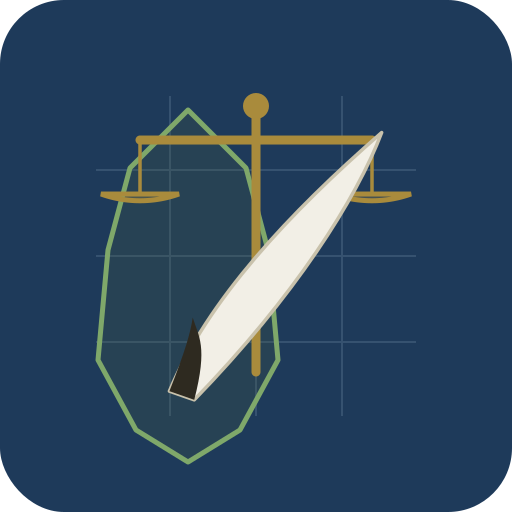
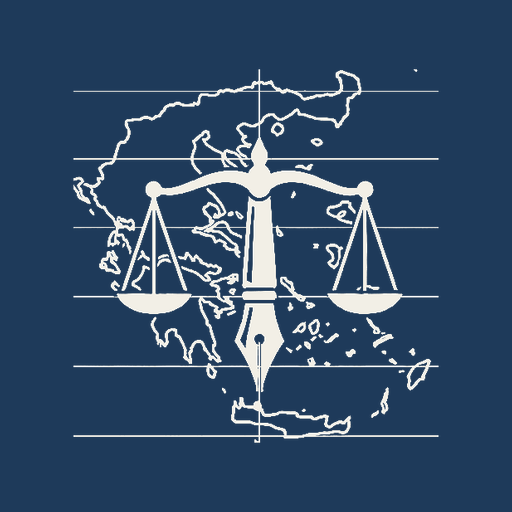
Add files via upload

diff --git a/index.html b/index.html
@@ -23,7 +23,7 @@
 *{box-sizing:border-box;margin:0;padding:0}
 body{font-family:'Segoe UI',system-ui,sans-serif;background:var(--bg);color:var(--ink);line-height:1.55}
 header{background:var(--navy);color:#fff;padding:18px 22px;display:flex;align-items:center;gap:14px;flex-wrap:wrap}
-header .emblem{width:54px;height:54px;border-radius:4px;flex-shrink:0}
+header .emblem{width:54px;height:54px;border-radius:4px;flex-shrink:0;object-fit:contain}
 header h1{font-size:20px;font-weight:600;letter-spacing:.5px}
 header .sub{font-size:12px;color:#b9c4d2;width:100%;margin-top:-4px}
 .wrap{max-width:1000px;margin:0 auto;padding:22px}
@@ -75,6 +75,33 @@ button{font-family:inherit;font-weight:600;cursor:pointer;border:none;border-rad
 .guide-foot{margin-top:14px;padding-top:12px;border-top:1px solid #d4ddea;color:#4a5568;font-size:13.5px}
 .brb-footer{text-align:center;padding:24px 16px 32px;color:#6b6657;font-size:13px;border-top:1px solid #e0ddd3;margin-top:24px}
 .brb-footer b{color:var(--navy)}
+.brb-meta{display:inline-block;margin-top:4px;font-size:11.5px;color:#9a9384;letter-spacing:.3px}
+.token-badge{display:inline-block;margin-top:6px;background:rgba(169,139,60,.18);color:#A98B3C;border:1px solid #A98B3C;padding:3px 10px;border-radius:20px;font-size:13px;font-weight:600;cursor:pointer}
+.token-badge.hidden{display:none}
+.token-badge.low{background:rgba(224,88,88,.15);color:#e05858;border-color:#e05858}
+.modal-overlay{position:fixed;inset:0;background:rgba(20,30,45,.6);display:flex;align-items:center;justify-content:center;z-index:1000;padding:16px}
+.modal-overlay.hidden{display:none}
+.modal-box{background:#fff;border-radius:8px;max-width:560px;width:100%;max-height:90vh;overflow:auto;padding:24px;position:relative;box-shadow:0 20px 60px rgba(0,0,0,.3)}
+.modal-x{position:absolute;top:14px;right:14px;border:none;background:none;font-size:18px;cursor:pointer;color:#888}
+.pkg-grid{display:grid;grid-template-columns:repeat(3,1fr);gap:10px;margin:16px 0}
+.pkg{border:1px solid #d4ddea;border-radius:6px;padding:14px 8px;text-align:center;position:relative}
+.pkg-best{border-color:#A98B3C;border-width:2px}
+.pkg-tag{position:absolute;top:-9px;left:50%;transform:translateX(-50%);background:#A98B3C;color:#fff;font-size:10px;padding:2px 8px;border-radius:10px;white-space:nowrap}
+.pkg-price{font-size:24px;font-weight:700;color:var(--navy)}
+.pkg-count{font-size:14px;color:#333;margin-top:2px;font-weight:600}
+.pkg-vat{font-size:11.5px;color:#4A6040;margin-top:3px}
+.pkg-unit{font-size:11px;color:#888;margin-top:4px}
+.pkg-tag-year{background:#1E3A5A}
+.pkg-locked{opacity:.6;position:relative;background:#f5f5f3}
+.pkg-lock{position:absolute;top:-9px;left:50%;transform:translateX(-50%);background:#999;color:#fff;font-size:10px;padding:2px 8px;border-radius:10px;white-space:nowrap}
+.pay-box{background:#f3f6fb;border:1px solid #d4ddea;border-radius:6px;padding:14px;margin-top:8px}
+.pay-steps{margin:6px 0;padding-left:20px;font-size:13.5px;line-height:1.7}
+.req-btns{display:flex;flex-direction:column;gap:8px;margin:12px 0}
+.btn-req{background:var(--olive);color:#fff;border:none;border-radius:5px;padding:11px 14px;font-size:14px;font-weight:600;cursor:pointer;text-align:center}
+.btn-req:hover{filter:brightness(1.08)}
+.btn-req:disabled{background:#bbb;cursor:not-allowed;opacity:.7}
+.pay-email-line{font-size:13px;color:#4a5568;margin:8px 0 0;text-align:center}
+.pay-email-line a{color:var(--navy);font-weight:600;text-decoration:none}
 .status.show{display:block}
 .status.info{background:#e8eef5;color:var(--navy)}
 .status.err{background:#fbe9e6;color:var(--accent)}
@@ -97,33 +124,10 @@ h4.sec{font-size:13px;color:var(--olive);margin:16px 0 8px;text-transform:upperc
 </head>
 <body>
 <header>
-  <svg class="emblem" viewBox="0 0 120 120" xmlns="http://www.w3.org/2000/svg" aria-label="Λογότυπο ΝΟΜΙΚΟ ΤΟΠΟ">
-    <rect x="0" y="0" width="120" height="120" rx="4" fill="#16293f"/>
-    <g stroke="#365270" stroke-width="0.5">
-      <line x1="14" y1="38" x2="106" y2="38"/><line x1="14" y1="62" x2="106" y2="62"/>
-      <line x1="14" y1="86" x2="106" y2="86"/>
-      <line x1="38" y1="14" x2="38" y2="106"/><line x1="62" y1="14" x2="62" y2="106"/>
-      <line x1="86" y1="14" x2="86" y2="106"/>
-    </g>
-    <path d="M44 22 L56 34 L62 58 L65 84 L55 102 L44 110 L33 102 L23 84 L26 58 L32 34 Z"
-          fill="#4A6040" fill-opacity="0.22" stroke="#7FA86A" stroke-width="1.2" stroke-linejoin="round"/>
-    <g transform="translate(60,60)">
-      <line x1="0" y1="-34" x2="0" y2="26" stroke="#A98B3C" stroke-width="2" stroke-linecap="round"/>
-      <line x1="-26" y1="-26" x2="26" y2="-26" stroke="#A98B3C" stroke-width="2" stroke-linecap="round"/>
-      <circle cx="0" cy="-34" r="3" fill="#A98B3C"/>
-      <path d="M-35 -14 A26 26 0 0 0 -17 -14 Z" fill="#A98B3C" fill-opacity="0.30" stroke="#A98B3C" stroke-width="1.2"/>
-      <path d="M17 -14 A26 26 0 0 0 35 -14 Z" fill="#A98B3C" fill-opacity="0.30" stroke="#A98B3C" stroke-width="1.2"/>
-      <line x1="-26" y1="-26" x2="-26" y2="-14" stroke="#A98B3C" stroke-width="0.8"/>
-      <line x1="26" y1="-26" x2="26" y2="-14" stroke="#A98B3C" stroke-width="0.8"/>
-    </g>
-    <g transform="translate(60,60) rotate(28)">
-      <path d="M-3 36 C -5 14, 2 -12, 12 -38 C 14 -22, 12 4, 3 35 Z"
-            fill="#F2EFE6" stroke="#C9C2AC" stroke-width="0.7" stroke-linejoin="round"/>
-      <path d="M-3 36 C -4 26, -5 22, -6 19 C -3 22, 0 23, 3 35 Z" fill="#2E2A20"/>
-    </g>
-  </svg>
+  <img class="emblem" src="emblem-header.png" alt="Λογότυπο ΝΟΜΙΚΟ ΤΟΠΟ">
   <div>
     <h1>ΝΟΜΙΚΟ ΤΟΠΟ</h1>
+    <div id="tokenBadge" class="token-badge hidden" onclick="showBuyTokens()" title="Υπόλοιπο αναλύσεων — κλικ για αγορά">🎫 <span id="tokenCount">—</span> αναλύσεις</div>
   </div>
   <div class="sub">Περιγραφές ιδιοκτησίας & πίνακες μεταβολών για συμβόλαια — από τοπογραφικά & διαγράμματα γεωμετρικών μεταβολών</div>
 </header>
@@ -381,8 +385,60 @@ h4.sec{font-size:13px;color:var(--olive);margin:16px 0 8px;text-transform:upperc
   </div><!-- /appBody -->
 
   <footer class="brb-footer">
-    Powered by <b>BRB DEVELOPMENT ΚΑΤΑΣΚΕΥΑΣΤΙΚΗ ΜΟΝ. ΙΚΕ</b> — ΛΕΥΚΑΔΑ
+    Powered by <b>BRB DEVELOPMENT ΚΑΤΑΣΚΕΥΑΣΤΙΚΗ ΜΟΝ. ΙΚΕ</b> — ΛΕΥΚΑΔΑ<br>
+    <span class="brb-meta">© 2026 · ΝΟΜΙΚΟ ΤΟΠΟ v1.0</span>
   </footer>
+</div>
+
+<!-- MODAL ΑΓΟΡΑΣ TOKENS -->
+<div id="buyModal" class="modal-overlay hidden" onclick="if(event.target===this)closeBuyTokens()">
+  <div class="modal-box">
+    <button class="modal-x" onclick="closeBuyTokens()">✕</button>
+    <h2 style="margin-top:0">🎫 Αγορά Αναλύσεων</h2>
+    <p class="muted">Κάθε ανάλυση σχεδίου χρησιμοποιεί 1 token. Οι εξαγωγές DOCX (όσες θέλετε από κάθε ανάλυση) είναι δωρεάν.</p>
+    <p>Τρέχον υπόλοιπο: <b id="modalBalance">—</b> αναλύσεις</p>
+
+    <div class="pkg-grid">
+      <div class="pkg pkg-best">
+        <div class="pkg-tag">Εξάμηνη συνδρομή</div>
+        <div class="pkg-count">120 διαγράμματα</div>
+        <div class="pkg-price">210€</div>
+        <div class="pkg-vat">+ ΦΠΑ 24% = <b>260,40€</b></div>
+        <div class="pkg-unit">1,75€ / διάγραμμα</div>
+      </div>
+      <div class="pkg">
+        <div class="pkg-tag pkg-tag-year">Ετήσια συνδρομή</div>
+        <div class="pkg-count">250 διαγράμματα</div>
+        <div class="pkg-price">380€</div>
+        <div class="pkg-vat">+ ΦΠΑ 24% = <b>471,20€</b></div>
+        <div class="pkg-unit">1,52€ / διάγραμμα</div>
+      </div>
+      <div class="pkg pkg-locked" id="pkgTopup">
+        <div class="pkg-lock">🔒 Μόνο για συνδρομητές</div>
+        <div class="pkg-count">+10 αναλύσεις</div>
+        <div class="pkg-price">50€</div>
+        <div class="pkg-vat">+ ΦΠΑ 24% = <b>62,00€</b></div>
+        <div class="pkg-unit">Επιπλέον δεκάδα</div>
+      </div>
+    </div>
+    <p class="muted" style="font-size:12.5px;margin-top:-6px">Η «δεκάδα» των 50€ διατίθεται ως επιπλέον αγορά μόνο σε ενεργούς συνδρομητές (εξάμηνη/ετήσια).</p>
+
+    <div class="pay-box">
+      <h3 style="margin:0 0 8px">📩 Πώς αγοράζετε</h3>
+      <ol class="pay-steps">
+        <li>Πατήστε το κουμπί <b>«Αποστολή αιτήματος»</b> για το πακέτο που θέλετε — θα ανοίξει έτοιμο email προς εμάς.</li>
+        <li>Θα σας στείλουμε <b>φόρμα παραγγελίας</b> και τα στοιχεία πληρωμής (τραπεζικός λογαριασμός / IRIS).</li>
+        <li>Μετά την κατάθεση, οι αναλύσεις σας <b>πιστώνονται</b> και μπορείτε να συνεχίσετε.</li>
+      </ol>
+      <div class="req-btns">
+        <button class="btn-req" onclick="requestPurchase('Εξάμηνη συνδρομή — 120 διαγράμματα (210€+ΦΠΑ)')">📩 Αίτημα: Εξάμηνη (120)</button>
+        <button class="btn-req" onclick="requestPurchase('Ετήσια συνδρομή — 250 διαγράμματα (380€+ΦΠΑ)')">📩 Αίτημα: Ετήσια (250)</button>
+        <button class="btn-req" id="reqTopup" onclick="requestPurchase('Επιπλέον δεκάδα — 10 αναλύσεις (50€+ΦΠΑ) [συνδρομητής]')">📩 Αίτημα: Δεκάδα (+10)</button>
+      </div>
+      <p class="pay-email-line">Ή στείλτε email απευθείας στο <b><a id="payEmailLink" href="mailto:[email redacted]">[email redacted]</a></b></p>
+    </div>
+    <button class="btn-nav" style="margin-top:14px;width:100%" onclick="refreshTokens();closeBuyTokens()">Ανανέωση υπολοίπου</button>
+  </div>
 </div>
 
 <script>
@@ -559,6 +615,18 @@ async function analyze(){
   const { data:{ session } } = await SB.auth.getSession();
   if(!session){setStatus('Πρέπει να είστε συνδεδεμένος για να χρησιμοποιήσετε την ανάλυση.','err');return;}
 
+  // ΕΛΕΓΧΟΣ TOKENS — πριν ξοδέψουμε ανάλυση
+  let bal=0;
+  try{
+    const { data:tok, error:terr } = await SB.rpc('my_tokens');
+    if(terr) throw terr;
+    bal = tok||0;
+  }catch(e){ bal = null; } // αν δεν έχει στηθεί ο πίνακας, μην μπλοκάρεις
+  if(bal!==null && bal<=0){
+    showNoTokens();
+    return;
+  }
+
   const btn=document.getElementById('btnAnalyze');
   btn.disabled=true;btn.innerHTML='<span class="spin"></span>Ανάλυση...';
   setStatus('Αποστολή στο Claude για ανάγνωση του σχεδίου...','info');
@@ -599,6 +667,8 @@ async function analyze(){
     const parsed=extractJSON(raw);
     if(!parsed) throw new Error('Το μοντέλο δεν επέστρεψε έγκυρα δεδομένα. Δοκιμάστε ξανά ή συμπληρώστε χειροκίνητα.');
     applyResult(parsed);
+    // ΧΡΕΩΣΗ 1 token (μόνο μετά από επιτυχή ανάλυση)
+    try{ const { data:nb } = await SB.rpc('spend_token'); if(typeof nb==='number') updateTokenBadge(nb); }catch(e){}
     // Αυστηρός αυτοέλεγχος
     const nV=(parsed.vertices||[]).length;
     const problems=validateVertices(parsed.vertices);
@@ -708,6 +778,16 @@ function neighborDir(dx,dy,ccw){
 function numGr(v){ return (Math.round(v*100)/100).toFixed(2).replace('.',','); }
 function cleanEmv(s){ return (s||'').replace(/\s*τ\.?μ\.?\s*/gi,'').trim(); }
 function safeName(s){ return (s||'').replace(/[\/\\:*?"<>|]/g,'_').replace(/_+/g,'_').replace(/^_|_$/g,''); }
+// Κεφαλαιοποίηση ονόματος: «ΣΥΡΓΙΑΝΝΗ ΛΑΜΠΡΙΝΗ» → «Συργιαννη Λαμπρινη»
+function properName(s){
+  if(!s) return s;
+  return String(s).split(/\s+/).map(w=>{
+    if(!w) return w;
+    // κράτα ως έχει λέξεις με αριθμούς ή συντομογραφίες (π.χ. Α.Α., ΚΑΕΚ, Δ.Ε.)
+    if(/\d/.test(w) || /\./.test(w)) return w;
+    return w.charAt(0).toUpperCase()+w.slice(1).toLowerCase();
+  }).join(' ');
+}
 // Επιλεγμένη γραμματοσειρά/μέγεθος για το DOCX
 function docFont(){ const e=document.getElementById('docFont'); return e?e.value:'Arial'; }
 function docBase(){ const e=document.getElementById('docSize'); const pt=e?parseInt(e.value,10):12; return pt*2; } // half-points
@@ -799,10 +879,15 @@ function buildBoundariesFromVertices(vertices,edges){
     const len=Math.sqrt(dx*dx+dy*dy);
     if(len<0.01) continue;
     // προτεραιότητα: nb πάνω στην κορυφή· μετά edges· αλλιώς άγνωστος
-    const nbName = (a.nb && String(a.nb).trim()) || edgeNb[String(a.n)+'>'+String(b.n)] || '';
+    let nbName = (a.nb && String(a.nb).trim()) || edgeNb[String(a.n)+'>'+String(b.n)] || '';
     const nbKaek = (a.nbKaek && String(a.nbKaek).trim()) || '';
+    // κεφαλαιοποίηση ΜΟΝΟ ονόματος ιδιοκτησίας (όχι δρόμων/ρεμάτων/αιγιαλού)
+    const isProperty = /^ιδιοκτησ/i.test(nbName);
+    if(isProperty){
+      nbName = nbName.replace(/^(ιδιοκτησ\S*)\s+(.*)$/i, (m,p1,p2)=>'ιδιοκτησία '+properName(p2));
+    }
     let nb;
-    if(nbKaek && nbName){ nb = 'ΚΑΕΚ '+nbKaek+', '+(/^ιδιοκτησ/i.test(nbName)?nbName:'ιδιοκτησίας '+nbName); }
+    if(nbKaek && nbName){ nb = 'ΚΑΕΚ '+nbKaek+', '+(/^ιδιοκτησ/i.test(nbName)?nbName:'ιδιοκτησίας '+properName(nbName)); }
     else if(nbKaek){ nb = 'ΚΑΕΚ '+nbKaek; }
     else if(nbName){ nb = nbName; }
     else { nb = ''; }
@@ -885,6 +970,71 @@ function toggleGuide(){
   const a=document.getElementById('guideToggle');
   const open=b.classList.toggle('open');
   a.classList.toggle('open',open);
+}
+
+// ====== ΣΥΣΤΗΜΑ TOKENS ======
+// ⚙ Email παραλαβής αιτημάτων αγοράς
+const ORDER_EMAIL = '[email redacted]';
+function updateTokenBadge(n){
+  const badge=document.getElementById('tokenBadge');
+  const cnt=document.getElementById('tokenCount');
+  if(cnt) cnt.textContent = (n==null?'—':n);
+  if(badge) badge.classList.remove('hidden');
+  if(n!=null && n<=2) badge && badge.classList.add('low'); else badge && badge.classList.remove('low');
+  const mb=document.getElementById('modalBalance'); if(mb) mb.textContent=(n==null?'—':n);
+}
+let IS_SUBSCRIBER=false;
+async function refreshTokens(){
+  if(!SB) return;
+  try{
+    const { data:{session} } = await SB.auth.getSession();
+    if(!session){ document.getElementById('tokenBadge').classList.add('hidden'); return; }
+    const { data, error } = await SB.rpc('my_status');
+    if(error) throw error;
+    const bal = (data&&data.balance)||0;
+    IS_SUBSCRIBER = !!(data&&data.subscriber);
+    updateTokenBadge(bal);
+    applySubscriberLock();
+  }catch(e){
+    // fallback: παλιά συνάρτηση μόνο για balance
+    try{ const { data } = await SB.rpc('my_tokens'); updateTokenBadge(data||0); }
+    catch(e2){ document.getElementById('tokenBadge').classList.add('hidden'); }
+  }
+}
+// Κλείδωμα/ξεκλείδωμα του πακέτου «δεκάδα» ανάλογα με συνδρομή
+function applySubscriberLock(){
+  const pkg=document.getElementById('pkgTopup');
+  const btn=document.getElementById('reqTopup');
+  if(IS_SUBSCRIBER){
+    if(pkg){ pkg.classList.remove('pkg-locked'); const l=pkg.querySelector('.pkg-lock'); if(l) l.style.display='none'; }
+    if(btn){ btn.disabled=false; btn.title=''; }
+  } else {
+    if(pkg){ pkg.classList.add('pkg-locked'); const l=pkg.querySelector('.pkg-lock'); if(l) l.style.display=''; }
+    if(btn){ btn.disabled=true; btn.title='Διαθέσιμο μόνο για συνδρομητές'; }
+  }
+}
+function showBuyTokens(){
+  refreshTokens();
+  document.getElementById('buyModal').classList.remove('hidden');
+}
+function closeBuyTokens(){ document.getElementById('buyModal').classList.add('hidden'); }
+function showNoTokens(){
+  setStatus('Εξαντλήθηκαν οι διαθέσιμες αναλύσεις σας. Αποκτήστε περισσότερες για να συνεχίσετε.','err');
+  showBuyTokens();
+}
+// Αίτημα αγοράς → ανοίγει έτοιμο email προς εμάς
+async function requestPurchase(pkg){
+  let email='(το email σας)';
+  try{ const {data}=await SB.auth.getUser(); if(data&&data.user&&data.user.email) email=data.user.email; }catch(e){}
+  const subject='Αίτημα αγοράς — ΝΟΜΙΚΟ ΤΟΠΟ';
+  const body=
+    'Θα ήθελα να αγοράσω το παρακάτω πακέτο:\n\n'+
+    '• Πακέτο: '+pkg+'\n'+
+    '• Email λογαριασμού μου: '+email+'\n\n'+
+    'Παρακαλώ στείλτε μου τη φόρμα παραγγελίας και τα στοιχεία πληρωμής.\n\n'+
+    'Ευχαριστώ.';
+  const url='mailto:'+ORDER_EMAIL+'?subject='+encodeURIComponent(subject)+'&body='+encodeURIComponent(body);
+  window.location.href=url;
 }
 
 // Καθαρισμός όλων για νέο διάγραμμα
@@ -1357,6 +1507,7 @@ function showLoggedIn(user){
   document.getElementById('userBar').style.display='';
   document.getElementById('appBody').style.display='';
   document.getElementById('userEmail').textContent=user?.email||'';
+  refreshTokens();
 }
 
 async function checkSession(){

diff --git a/sw.js b/sw.js
@@ -1,11 +1,12 @@
 // ΝΟΜΙΚΟ ΤΟΠΟ — service worker (network-first)
-const CACHE = 'nomiko-topo-v3';
+const CACHE = 'nomiko-topo-v5';
 const ASSETS = [
   './',
   './index.html',
   './manifest.json',
   './icon-192.png',
-  './icon-512.png'
+  './icon-512.png',
+  './emblem-header.png'
 ];
 
 self.addEventListener('install', (e) => {